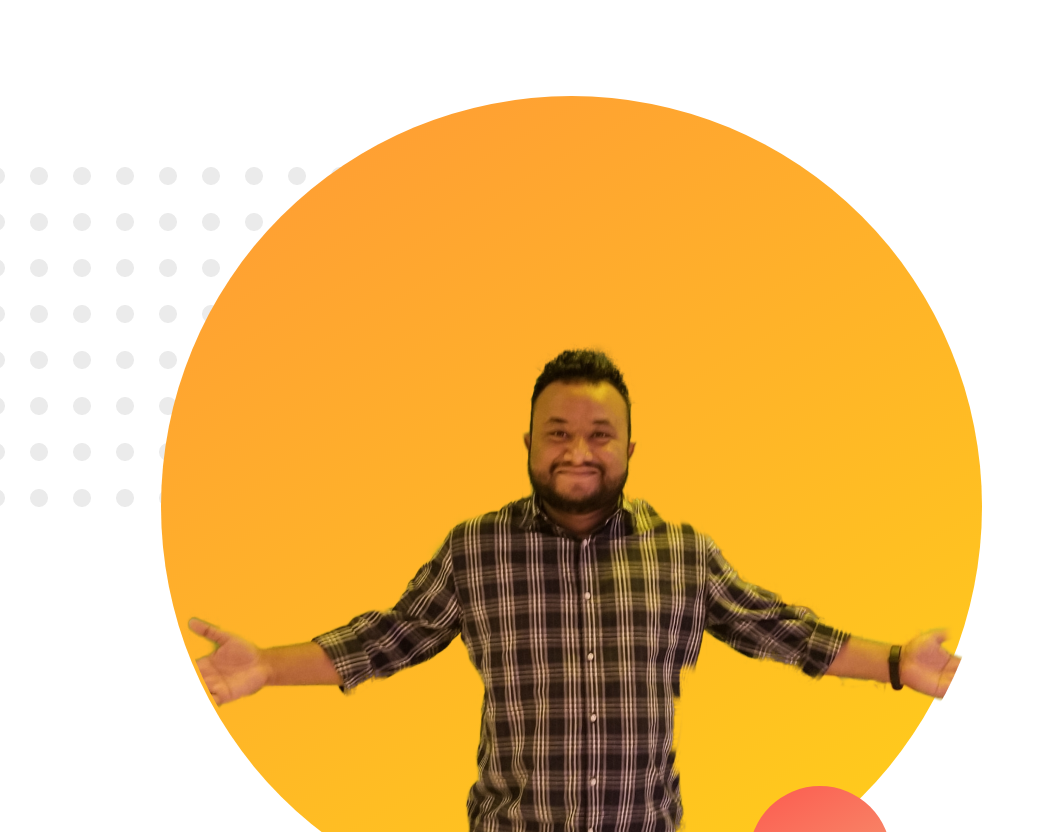
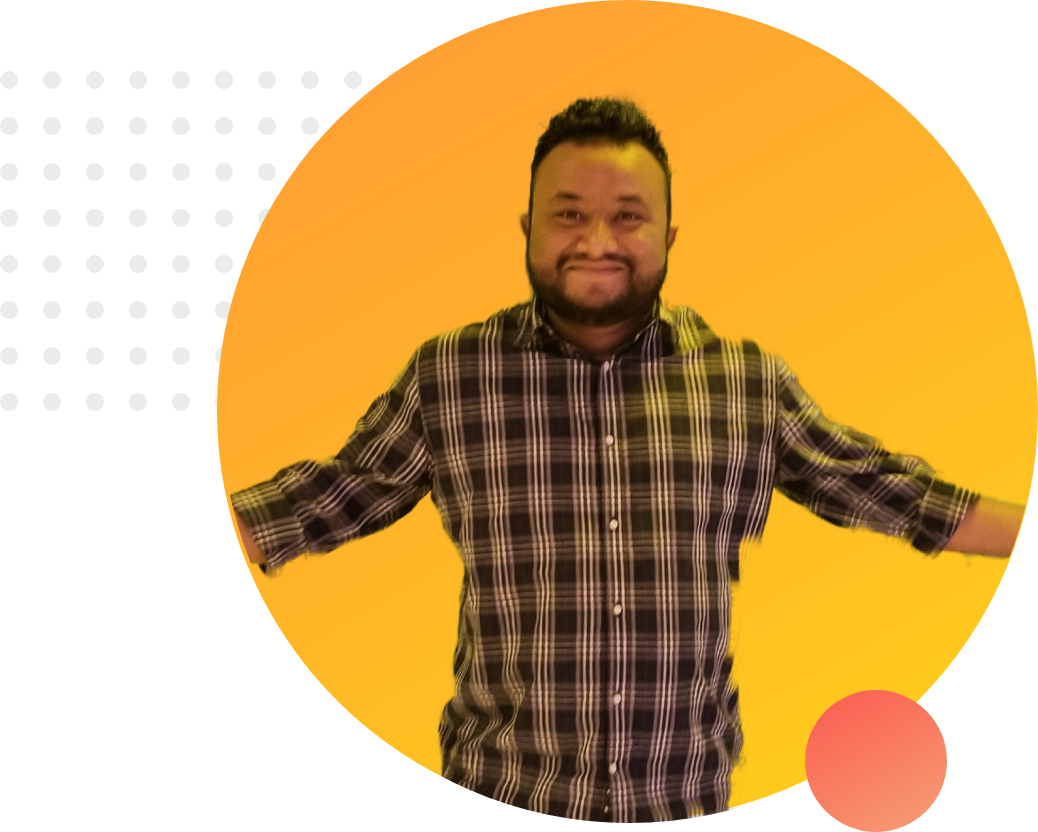
update 28_10

diff --git a/index.html b/index.html
@@ -24,5 +24,15 @@
             <img src="images/1.png" alt="">
         </div>
     </section>
+    <section class=dream-area">
+        <div class="half-width">
+            <img src="images/2.png" alt="">
+
+        </div>
+        <div class="half-width">
+            <h1>Dream Big</h1>
+            <h3>Become a Web Developer</h3>
+        </div>
+    </section>
 </body>
 </html>

diff --git a/style.css b/style.css
@@ -23,6 +23,7 @@ h1{
 }
 section{
     height: 500px;
+    padding-bottom: 100px;
 }
 .link-button{
     text-decoration: none;
